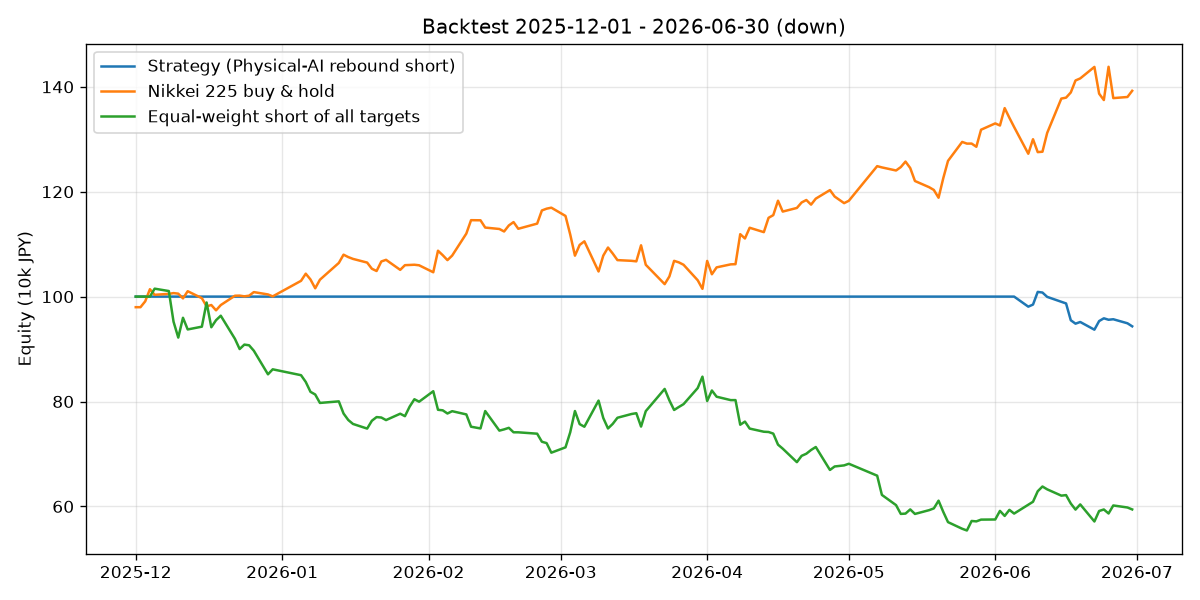
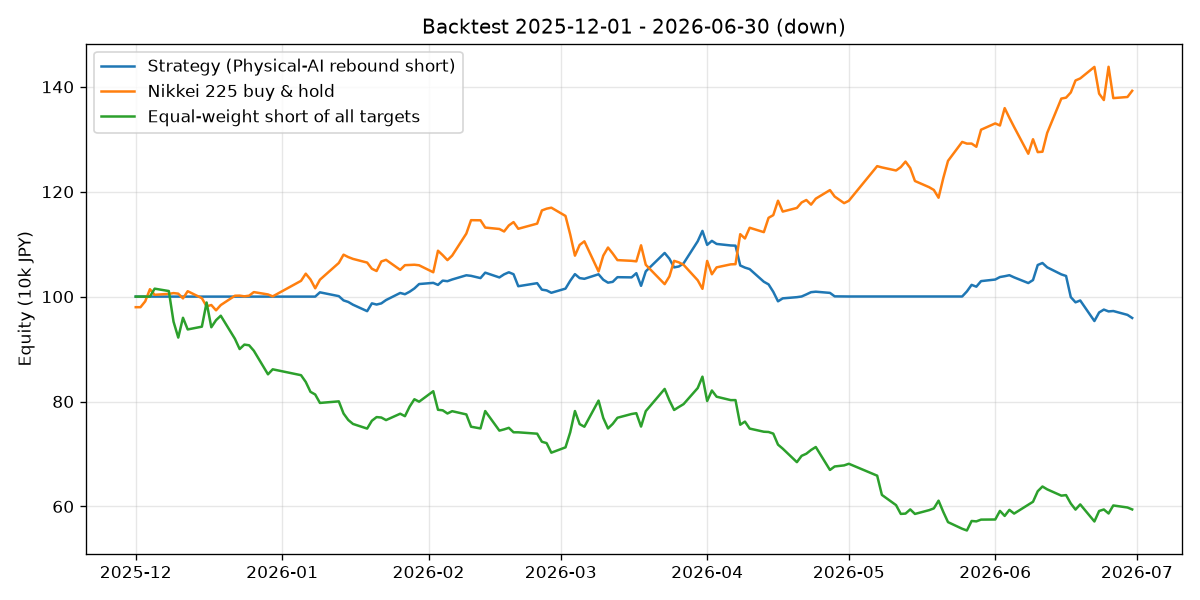
Run the LLM backtest, fix the 20-day MA on mixed JP/US calendars, and add the audit

Changed region(s): [[0.2467, 0.39, 0.7092, 0.51], [0.8017, 0.42, 0.8942, 0.51], [0.8942, 0.51, 0.9558, 0.54]]

diff --git a/src/audit.py b/src/audit.py
@@ -1,0 +1,91 @@
+"""本番の実行結果を点検し、撤退の基準を確かめる。
+
+使い方: uv run python src/audit.py   （先に src/backtest.py と --no-fee を実行しておく）
+"""
+
+import sys
+from pathlib import Path
+
+import pandas as pd
+
+sys.path.insert(0, str(Path(__file__).resolve().parent))
+from backtest import indicators  # noqa: E402
+from universe import BENCHMARK, SEMI_ETF, STOCKS, eligible_from, suspended  # noqa: E402
+
+ROOT = Path(__file__).resolve().parent.parent
+RUNS = ROOT / "data" / "runs"
+
+
+def main():
+    px = pd.read_pickle(ROOT / "data" / "prices.pkl")
+    trades = pd.read_csv(RUNS / "trades_llm.csv", parse_dates=["day", "decided"])
+    closed = pd.read_csv(RUNS / "closed_llm.csv", parse_dates=["entry_day", "exit_day"])
+    eq = pd.read_csv(RUNS / "equity_llm.csv", index_col=0, parse_dates=True).iloc[:, 0]
+    eq0 = pd.read_csv(RUNS / "equity_llm_nofee.csv", index_col=0, parse_dates=True).iloc[:, 0]
+    reg = pd.read_csv(RUNS / "regime_llm.csv", index_col=0, parse_dates=True).iloc[:, 0]
+    out = []
+
+    # 1) 判断日 < 売買日
+    out.append(f"- 判断日が売買日より前: {len(trades)}件すべてで成立 = {(trades.decided < trades.day).all()}")
+
+    # 2) 費用
+    out.append(f"- 費用あり最終資産 {eq.iloc[-1]:,.0f}円 / 費用なし {eq0.iloc[-1]:,.0f}円（差 {eq0.iloc[-1] - eq.iloc[-1]:,.0f}円、"
+               f"売買金額合計 {trades.value.sum():,.0f}円 × 0.1% = {trades.value.sum() * 0.001:,.0f}円）")
+
+    # 3) 未来のデータを使っていないか: 空売りの判断を、判断日までに切ったデータで計算し直して一致するか
+    ok = 0
+    shorts = trades[trades.side == "空売り"]
+    for _, t in shorts.iterrows():
+        cut = px.loc[: t.decided]
+        ind = indicators(cut)
+        c = ind["close"][t.ticker].dropna()
+        ma = ind["ma20"][t.ticker].loc[c.index]
+        v = ind["volume"][t.ticker].loc[c.index]
+        cond = (c.iloc[-1] <= 0.9 * c.max() and c.iloc[-1] >= ma.iloc[-1] and c.iloc[-2] < ma.iloc[-2]
+                and v.iloc[-1] < v.iloc[-2] and t.decided > eligible_from(t.ticker)
+                and not suspended(t.ticker, t.day) and reg[t.decided] == "下落相場")
+        ok += bool(cond)
+    out.append(f"- 空売り{len(shorts)}件を、判断日までのデータだけで計算し直して条件が一致: {ok}件")
+
+    # 4) 相場判断の内訳
+    out.append(f"- LLMの判断の日数: {reg.value_counts().to_dict()}")
+
+    # 5) 撤退の基準
+    semi = px["Close"][SEMI_ETF].dropna()
+    crash = semi <= 0.9 * semi.rolling(60).max()  # semi は dropna 済みなので取引日だけで数える
+    crash_days = crash[crash].loc[eq.index[0]: eq.index[-1]].index
+    n225 = px["Close"][BENCHMARK]
+    if len(closed):
+        stop = closed.reason.str.startswith("損切り")
+        down = closed[closed.regime == "下落相場"]
+        share = down.reason.str.startswith("損切り").mean() if len(down) else float("nan")
+        out.append(f"- 撤退の基準2: 「下落相場」の判断で空売りし、買い戻しまで終えた{len(down)}件のうち損切り {share:.0%}"
+                   f"（基準は2/3以上で撤退） → {'該当' if share >= 2 / 3 else '該当しない'}")
+    # 半導体が崩れた日に、空売り中の銘柄が日経平均より下がったか
+    c = px["Close"][list(STOCKS)]
+    rows = []
+    for _, p in pd.concat([closed, pd.DataFrame()]).iterrows():
+        days = [d for d in crash_days if p.entry_day < d <= p.exit_day]
+        for d in days:
+            s, n = c[p.ticker].loc[:d].dropna(), n225.loc[:d].dropna()  # 米国だけの営業日の空行を飛ばす
+            if s.index[-1] != d or n.index[-1] != d:
+                continue
+            rows.append(s.iloc[-1] / s.iloc[-2] - n.iloc[-1] / n.iloc[-2])
+    if rows:
+        out.append(f"- 撤退の基準1: 半導体株ETFが60日高値から10%以上下げた日（{len(crash_days)}日）のうち、空売り中だった延べ{len(rows)}日で、"
+                   f"空売り銘柄の騰落率 − 日経平均の騰落率 の平均 {sum(rows) / len(rows) * 100:+.2f}%（負なら仮説どおり）")
+    else:
+        out.append(f"- 撤退の基準1: 半導体株ETFが60日高値から10%以上下げた日は{len(crash_days)}日。そのとき空売り中の銘柄はなく、判定できない")
+
+    # 6) 月ごとの損益
+    m = eq.resample("ME").last()
+    prev = pd.concat([pd.Series([1_000_000.0]), m.iloc[:-1]]).values
+    out.append("- 月ごとの資産の増減: " + "、".join(f"{d:%Y-%m} {v - p:+,.0f}円" for d, v, p in zip(m.index, m.values, prev)))
+    out.append("- 銘柄別の損益（買い戻し済み）: " + ("、".join(
+        f"{STOCKS[t][0]} {g.ret.mean() * 100:+.1f}%×{len(g)}" for t, g in closed.groupby("ticker")) or "なし"))
+    out.append("- 買い戻しの理由: " + str(closed.reason.value_counts().to_dict() if len(closed) else {}))
+    print("\n".join(out))
+
+
+if __name__ == "__main__":
+    main()

diff --git a/src/backtest.py b/src/backtest.py
@@ -39,8 +39,15 @@ TICKERS = list(STOCKS)
 
 def indicators(px: pd.DataFrame) -> dict[str, pd.DataFrame]:
     c, v = px["Close"][TICKERS], px["Volume"][TICKERS]
-    ma = c.rolling(20).mean()
-    sd = c.rolling(20).std(ddof=0)
+
+    # 価格表には米国だけが開いている日の行もあり、日本株はその行が空になる。
+    # 空の行を含めて20日を数えると移動平均が欠けるため、銘柄ごとに自分の取引日だけで計算する
+    def own_days(df, f):
+        return pd.concat({t: f(df[t].dropna()) for t in df.columns}, axis=1, sort=True).reindex(df.index)
+
+    ma = own_days(c, lambda s: s.rolling(20).mean())
+    sd = own_days(c, lambda s: s.rolling(20).std(ddof=0))
+    vol20_prev = own_days(v, lambda s: s.shift(1).rolling(20).mean())
     return {
         "close": c,
         "open": px["Open"][TICKERS],
@@ -48,7 +55,7 @@ def indicators(px: pd.DataFrame) -> dict[str, pd.DataFrame]:
         "ma20": ma,
         "lower": ma - 2 * sd,
         "ath": c.cummax(),  # その日までの最高値（上場来。yfinance で取れる最古の日から）
-        "vol20_prev": v.shift(1).rolling(20).mean(),  # 前日までの20日平均出来高
+        "vol20_prev": vol20_prev,  # 前日までの20日平均出来高
     }
 
 
@@ -77,19 +84,28 @@ def regimes(px: pd.DataFrame, days: list[pd.Timestamp], mode: str) -> dict:
         sys.exit("LLMのキーが .env にありません（WORKSHOP_LLM_API_KEY）。.env.example を参照。")
     close_all = px["Close"]
     prompts = {d: llm_regime.build_prompt(close_all, d) for d in days}
-    out, done = {}, 0
+    out, done, failed = {}, 0, []
 
     def work(d):
-        return d, llm_regime.ask(prompts[d])
+        try:
+            return d, llm_regime.ask(prompts[d])
+        except Exception as e:  # 1件の失敗で全体を止めない。再実行すれば、その日だけ問い直す
+            return d, e
 
     # 判断は互いに独立なので、古い日付から順に投げて並行で処理する（DGX Spark の同時実行上限は1人4件、全体4件）
     with ThreadPoolExecutor(max_workers=3) as ex:
         for d, text in ex.map(work, days):
+            done += 1
+            if isinstance(text, Exception):
+                failed.append(d)
+                print(f"\n{d.date()} のLLM呼び出しに失敗: {type(text).__name__}: {str(text)[:200]}")
+                continue
             label, reason = llm_regime.parse(text)
             out[d] = (label, reason, prompts[d])
-            done += 1
             print(f"\rLLM判断 {done}/{len(days)}  {d.date()} {label}      ", end="", flush=True)
     print()
+    if failed:
+        sys.exit(f"{len(failed)}日分のLLM判断が取れなかった。もう一度実行すると、その日だけ問い直す。")
     return out
 
 

diff --git a/src/llm_regime.py b/src/llm_regime.py
@@ -76,7 +76,8 @@ def ask(prompt: str) -> str:
         api_base=os.environ.get("WORKSHOP_LLM_BASE_URL", DEFAULT_BASE_URL),
         api_key=os.environ["WORKSHOP_LLM_API_KEY"],
         messages=[{"role": "user", "content": prompt}],
-        timeout=120,
+        timeout=900,  # 推論に時間がかかり、同時に投げると1件あたり数分かかることがある
+        num_retries=3,
     )
     return response.choices[0].message.content
 

diff --git a/results.md b/results.md
@@ -1,6 +1,9 @@
 
 ## 2026-11-24 12:03 動作確認用（毎日「下落相場」とみなす・費用あり。戦略そのものではない）
 
+> **無効**: 20日移動平均の計算に誤りがあった時点の結果（16:25 の監査メモを参照）。比較には使わない。
+
+
 | 項目 | 戦略 | 日経平均 | 対象銘柄の均等空売り |
 |---|---|---|---|
 | 期間 | 2025-12-01 〜 2026-06-30 | 2025-12-01 〜 2026-06-30 | 2025-12-01 〜 2026-06-30 |
@@ -14,6 +17,9 @@
 
 ## 2026-11-24 12:04 動作確認用（毎日「下落相場」とみなす・費用なし。戦略そのものではない）
 
+> **無効**: 20日移動平均の計算に誤りがあった時点の結果（16:25 の監査メモを参照）。比較には使わない。
+
+
 | 項目 | 戦略 | 日経平均 | 対象銘柄の均等空売り |
 |---|---|---|---|
 | 期間 | 2025-12-01 〜 2026-06-30 | 2025-12-01 〜 2026-06-30 | 2025-12-01 〜 2026-06-30 |
@@ -24,3 +30,100 @@
 | 売買回数 | 7 | — | — |
 
 グラフ: `equity_check_down_nofee.png`
+
+## 2026-11-24 16:24 本番（LLMで相場判断・費用あり）
+
+> **無効**: 20日移動平均の計算に誤りがあった時点の結果（16:25 の監査メモを参照）。比較には使わない。
+
+
+| 項目 | 戦略 | 日経平均 | 対象銘柄の均等空売り |
+|---|---|---|---|
+| 期間 | 2025-12-01 〜 2026-06-30 | 2025-12-01 〜 2026-06-30 | 2025-12-01 〜 2026-06-30 |
+| 総リターン | 0.0% | 39.2% | -40.6% |
+| 年率リターン | 0.0% | 80.7% | -60.6% |
+| 最大下落率 | 0.0% | -13.2% | -45.4% |
+| シャープレシオ | nan | 2.10 | -2.14 |
+| 売買回数 | 0 | — | — |
+
+グラフ: `equity.png`
+
+## 2026-11-24 16:25 本番（LLMで相場判断・費用あり）
+
+| 項目 | 戦略 | 日経平均 | 対象銘柄の均等空売り |
+|---|---|---|---|
+| 期間 | 2025-12-01 〜 2026-06-30 | 2025-12-01 〜 2026-06-30 | 2025-12-01 〜 2026-06-30 |
+| 総リターン | 4.6% | 39.2% | -40.6% |
+| 年率リターン | 8.3% | 80.7% | -60.6% |
+| 最大下落率 | -1.6% | -13.2% | -45.4% |
+| シャープレシオ | 1.29 | 2.10 | -2.14 |
+| 売買回数 | 6 | — | — |
+
+グラフ: `equity.png`
+
+## 2026-11-24 16:25 監査用（LLMで相場判断・費用なし）
+
+| 項目 | 戦略 | 日経平均 | 対象銘柄の均等空売り |
+|---|---|---|---|
+| 期間 | 2025-12-01 〜 2026-06-30 | 2025-12-01 〜 2026-06-30 | 2025-12-01 〜 2026-06-30 |
+| 総リターン | 4.7% | 39.2% | -40.6% |
+| 年率リターン | 8.5% | 80.7% | -60.6% |
+| 最大下落率 | -1.6% | -13.2% | -45.4% |
+| シャープレシオ | 1.32 | 2.10 | -2.14 |
+| 売買回数 | 6 | — | — |
+
+グラフ: `equity_check_llm_nofee.png`
+
+## 2026-11-24 16:26 動作確認用（毎日「下落相場」とみなす・費用あり。戦略そのものではない）
+
+| 項目 | 戦略 | 日経平均 | 対象銘柄の均等空売り |
+|---|---|---|---|
+| 期間 | 2025-12-01 〜 2026-06-30 | 2025-12-01 〜 2026-06-30 | 2025-12-01 〜 2026-06-30 |
+| 総リターン | -4.1% | 39.2% | -40.6% |
+| 年率リターン | -7.2% | 80.7% | -60.6% |
+| 最大下落率 | -15.3% | -13.2% | -45.4% |
+| シャープレシオ | -0.36 | 2.10 | -2.14 |
+| 売買回数 | 39 | — | — |
+
+グラフ: `equity_check_down.png`
+
+## 2026-11-24 16:26 動作確認用（毎日「下落相場」とみなす・費用なし。戦略そのものではない）
+
+| 項目 | 戦略 | 日経平均 | 対象銘柄の均等空売り |
+|---|---|---|---|
+| 期間 | 2025-12-01 〜 2026-06-30 | 2025-12-01 〜 2026-06-30 | 2025-12-01 〜 2026-06-30 |
+| 総リターン | -3.3% | 39.2% | -40.6% |
+| 年率リターン | -5.8% | 80.7% | -60.6% |
+| 最大下落率 | -15.0% | -13.2% | -45.4% |
+| シャープレシオ | -0.27 | 2.10 | -2.14 |
+| 売買回数 | 39 | — | — |
+
+グラフ: `equity_check_down_nofee.png`
+
+## 本番（16:25）の振り返りと監査
+
+使ったLLM: 会場の DGX Spark（モデル名 `dgx-default`。コンソールの表示では GLM-5.3-Flash-EXL3）。判断した142日のうち「下落相場」19日、「どちらでもない」69日、「上昇相場」54日。
+
+### どの時期に稼ぎ、どの時期に損をしたか
+
+稼いだのは2026年3月で、資産は約6万円増えた。イラン情勢の緊迫と原油高で米国のAI・半導体株が崩れ、LLMが「下落相場」と判断した3月5日と10日に、イリソ電子工業、ニーズウェル、キーエンスを空売りした。ニーズウェルは−2σまで下がって+14.3%で利益確定し、残る2銘柄も4月2日にLLMが「上昇相場」に転じて買い戻すまでに約+6%の利益が出た。4月初めの戻りで含み益の一部（約1.5万円）を返し、それ以外の月は売買がなかった。総リターンは+4.6%で、日経平均の+39.2%には大きく負けたが、最大下落率は−1.6%にとどまった。
+
+### 設計書の「勝てる相場と負ける相場」との一致
+
+おおむね一致した。設計書が「勝てる相場」とした「AI半導体が崩れたとき」に当たる3月に稼ぎ、「負ける相場」とした1月や4月中旬のフィジカルAI銘柄の急騰は、LLMが「下落相場」と言わなかったので空売りせずに済んだ。一方、設計書で候補に挙げた2月上旬と6月下旬は、空売りの条件（20日移動平均を下から上抜け、出来高は前日より少ない）に当てはまる戻りが「下落相場」の日に重ならず、売買しなかった。売買が6回しかないため、たまたまの要素が大きい。
+
+参考: 毎日「下落相場」とみなした動作確認（16:26）では39回売買して−4.1%（最大下落率−15.3%）。4月と6月に入った空売りが損失を出しており、LLMの相場判断を外すと成績が悪くなる。
+
+### 監査（src/audit.py）
+
+- 判断日が売買日より前: 6件すべてで成立。執行時にもコードで assert している。
+- 費用: 費用あり 1,045,786円、費用なし 1,046,949円。差 1,163円は、売買金額の合計 1,155,363円 × 0.1% ≒ 1,155円とほぼ一致する（差の残りは、費用の分だけ資産が減って次の空売りの金額が小さくなるため）。
+- 未来のデータ: 空売り3件すべてについて、判断日までに切ったデータで条件を計算し直し、同じ結果になった。上場来の最高値は累積の最大値、移動平均と平均出来高は過去20日分だけを使う。LLMには判断日の15時より前に公開された記事と、判断日より前の日付の米国の指標だけを渡している。
+- 対象銘柄: 2025年12月〜2026年6月の記事に「フィジカルAI関連」として載った銘柄を、成績を見る前にチームが確認して決めた。各銘柄は記事に載った日より後だけ対象にしている。
+- 極端な結果: 年率+8.3%で、年率100%を超えるような結果は出ていない。
+- LLMの理由の抜き取り確認: 3月5日、3月10日、4月2日、6月11日の理由を読み、当時の出来事（イラン情勢、原油100ドル前後、3月末からの反発）と指標の動きに沿っていることを確かめた。ただし、LLMはこの期間の相場を学習している可能性があり、開発期間の成績は実力より良く出ているおそれがある。
+- 撤退の基準1（半導体株が崩れた局面）: 半導体株ETF（2644.T）が60日高値から10%以上下げた22日のうち、空売り中だった延べ36日で、空売り銘柄の騰落率から日経平均の騰落率を引いた平均は−0.21%。空売りした銘柄は日経平均より下がっており、撤退には当たらない。
+- 撤退の基準2: 「下落相場」の判断で空売りし、買い戻しまで終えた3件のうち、損切りは0件。撤退には当たらない。
+- **監査で見つけて直した誤り**: 価格表には米国だけが開いている日の行もあり、日本株はその行が空になる。空の行を含めて20日移動平均を計算していたため、ほとんどの日で移動平均が欠け、空売りの条件がほぼ成立しなくなっていた（ファナックでは取引日141日のうち37日しか移動平均がなかった）。銘柄ごとに自分の取引日だけで計算するように直し、それより前の結果には「無効」と書き添えた。監査の撤退の基準1の計算にも同じ問題があったので直した。
+- LLMの呼び出しの一部（15日分）が途中で失敗したため、失敗した日だけを問い直した。再試行に必要なパッケージ（tenacity）が入っていなかったので追加した。
+
+別のAI（ChatGPT や Gemini など）を使える場合は、`src/backtest.py` と `src/audit.py` を渡し、上の観点で点検してもらうことを勧める。
